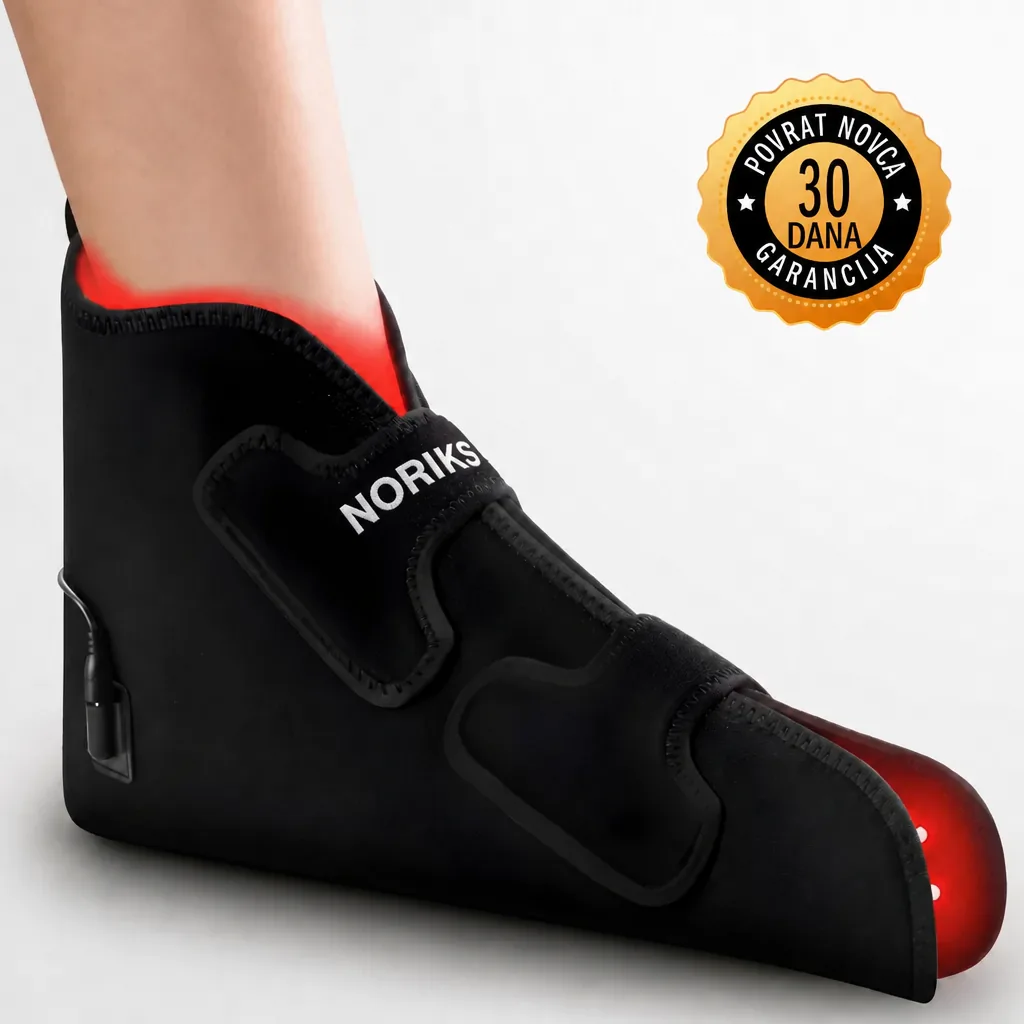
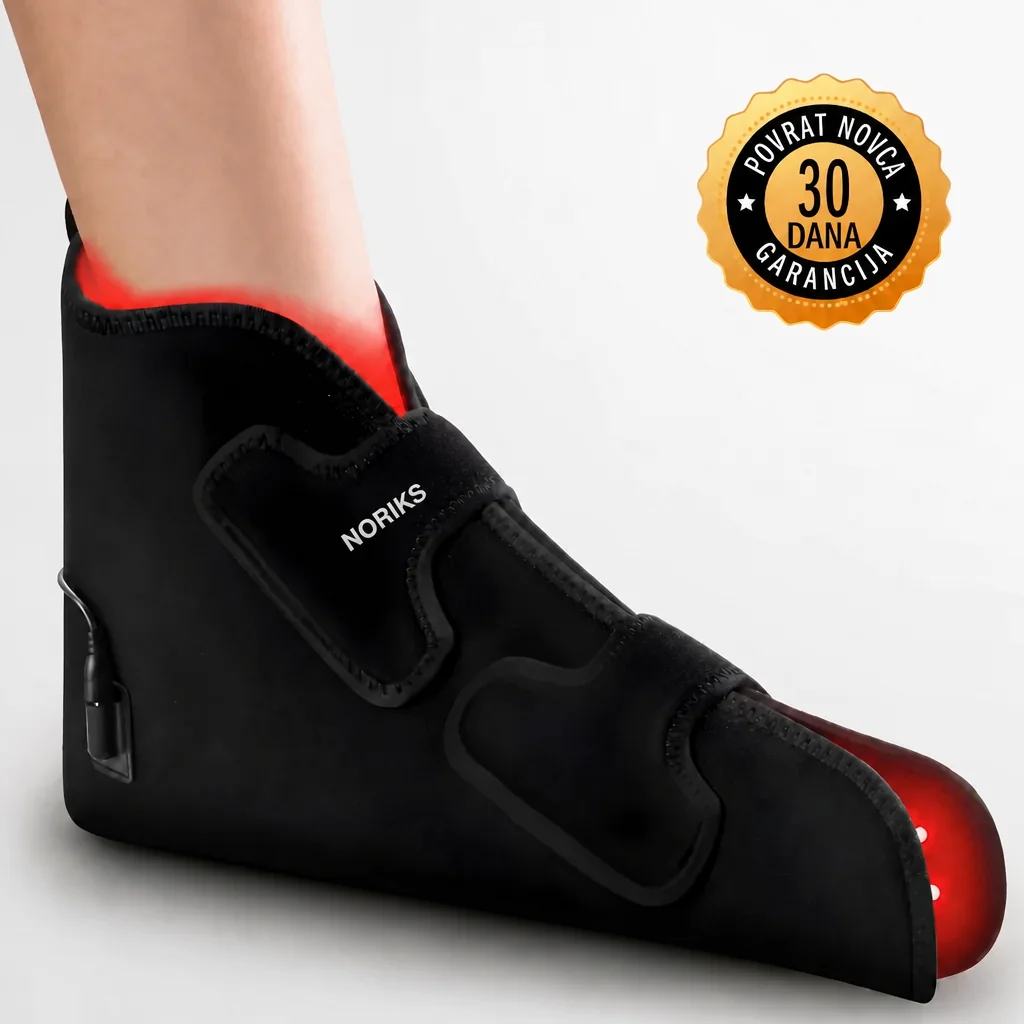
NeuroSoothe: napis NORIKS na obuvku v celoti na traku in cist (glavna slika, udobnost, korak 3) - prej je segal cez rob traku na obuvak (Davidov komentar)

diff --git a/wp-content/themes/noriks/template_parts/product-bottom/why-neurosoothe.php b/wp-content/themes/noriks/template_parts/product-bottom/why-neurosoothe.php
@@ -25,8 +25,8 @@ if ( ! defined( 'ABSPATH' ) ) { exit; }
 <section class="wsneurosoothe__s"><div class="wsneurosoothe__v wsneurosoothe__dva"><div class="wsneurosoothe__media wsneurosoothe__media--cela"><img src="<?php echo esc_url( get_template_directory_uri() . '/img/neurosoothe/noriks-neurosoothe-zdravlje-stopala.webp?v=2' ); ?>" alt="Prva pomoć kod neuropatije" loading="eager" decoding="async"></div><div><div class="wsneurosoothe__kicker">Prva pomoć</div><h2 class="wsneurosoothe__h2">Prva pomoć <em>kod neuropatije</em></h2><p class="wsneurosoothe__p">Ovo nije još jedna krema protiv bolova ni tableta za umrtvljivanje.</p><p class="wsneurosoothe__p">NORIKS NeuroSoothe je nosivi uređaj za terapiju živaca koji djeluje na izvoru neuropatije. Ugrađene diode crvenog i bliskog infracrvenog svjetla usmjerene su na stopala – upravo tamo gdje neuropatija najjače pogađa.</p><p class="wsneurosoothe__p">U čemu pomaže:</p><ul class="wsneurosoothe__kv"><li>potiče NGF (faktor rasta živaca) za obnovu živčanih završetaka</li><li>poboljšava cirkulaciju i dotok kisika u oštećeno tkivo</li><li>smanjuje upalu i omogućuje živcima da se prirodno obnove</li></ul><p class="wsneurosoothe__zak">Koristite ga 30 minuta dnevno i pustite tijelo da počne zacjeljivati – prirodno, nježno i učinkovito.</p></div></div></section>
 <section class="wsneurosoothe__s wsneurosoothe__s--bg"><div class="wsneurosoothe__v wsneurosoothe__dva wsneurosoothe__dva--rev"><div class="wsneurosoothe__media wsneurosoothe__media--cela"><img src="<?php echo esc_url( get_template_directory_uri() . '/img/neurosoothe/noriks-neurosoothe-cip.webp' ); ?>" alt="Napredna tehnologija crvenog svjetla, jednostavna za korištenje" loading="eager" decoding="async"></div><div><div class="wsneurosoothe__kicker">Tehnologija crvenog svjetla</div><h2 class="wsneurosoothe__h2">Napredna tehnologija crvenog svjetla, <em>jednostavna za korištenje</em></h2><p class="wsneurosoothe__p">Klinike za terapiju crvenim svjetlom naplaćuju stotine eura – uređaji su glomazni, a termini nikad ne prestaju.</p><p class="wsneurosoothe__p">NeuroSoothe koristi iste valne duljine kao profesionalni uređaji (<em>660 nm i 850 nm</em>) i donosi ih ravno u vaš dom – u udobnom obliku koji se nosi na stopalu.</p><ul class="wsneurosoothe__kv"><li><em>Crveno svjetlo (660 nm):</em> pojačava cirkulaciju i potiče oporavak na površini</li><li><em>Blisko infracrveno svjetlo (850 nm):</em> prodire dublje i potiče stvaranje NGF-a i obnovu živaca</li></ul><p class="wsneurosoothe__zak">Bez muke. Bez termina. Samo rezultati.</p></div></div></section>
 <section class="wsneurosoothe__s"><div class="wsneurosoothe__v wsneurosoothe__dva"><div class="wsneurosoothe__media"><img src="<?php echo esc_url( get_template_directory_uri() . '/img/neurosoothe/noriks-neurosoothe-stopalo.webp' ); ?>" alt="Prirodno ublažite neuropatsku bol" loading="eager" decoding="async"></div><div><div class="wsneurosoothe__kicker">Prirodno olakšanje</div><h2 class="wsneurosoothe__h2">Prirodno ublažite <em>neuropatsku bol</em></h2><p class="wsneurosoothe__p">Neuropatija je više od boli – to je prekid komunikacije između tijela i mozga. Kako živci slabe, simptomi se pogoršavaju.</p><p class="wsneurosoothe__p">NORIKS NeuroSoothe pomaže preokrenuti taj proces. Potičući NGF i pojačavajući dotok krvi u stopala, omogućuje tijelu da radi ono za što je stvoreno – da se oporavi.</p><p class="wsneurosoothe__p">Većina korisnika navodi poboljšanje kod:</p><ul class="wsneurosoothe__kv"><li>trnaca i osjećaja „strujnog udara“</li><li>utrnulosti prstiju i tabana</li><li>peckanja, osobito noću</li><li>stabilnosti i sigurnosti pri hodu</li><li>dubokog sna i razine energije</li></ul><p class="wsneurosoothe__zak">Koristite ga 30 minuta dnevno – nježno, prirodno i učinkovito.</p></div></div></section>
-<section class="wsneurosoothe__s wsneurosoothe__s--bg"><div class="wsneurosoothe__v wsneurosoothe__dva wsneurosoothe__dva--rev"><div class="wsneurosoothe__media wsneurosoothe__media--cela"><img src="<?php echo esc_url( get_template_directory_uri() . '/img/neurosoothe/noriks-neurosoothe-udobnost.webp?v=2' ); ?>" alt="Prednosti koje mijenjaju svakodnevicu" loading="eager" decoding="async"></div><div><div class="wsneurosoothe__kicker">Promjena koju osjetite</div><h2 class="wsneurosoothe__h2">Prednosti koje <em>mijenjaju svakodnevicu</em></h2><p class="wsneurosoothe__p">Uz redovitu svakodnevnu upotrebu NeuroSoothe je kupcima pomogao da:</p><p class="wsneurosoothe__p">Sve što trebate je pola sata dnevno – dok čitate, gledate televiziju ili se jednostavno odmarate na kauču.</p><ul class="wsneurosoothe__kv"><li>ponovno osjete svoja stopala</li><li>hodaju dulje bez boli</li><li>bolje spavaju cijelu noć</li><li>vrate energiju i samostalnost</li><li>napokon osjete olakšanje bez oslanjanja na lijekove</li></ul><p class="wsneurosoothe__zak">Mirnije noći i lakši koraci – naručite svoj NeuroSoothe danas.</p></div></div></section>
-<section class="wsneurosoothe__s"><div class="wsneurosoothe__v"><div class="wsneurosoothe__kicker wsneurosoothe__c">Kako se koristi</div><h2 class="wsneurosoothe__h2 wsneurosoothe__c">Olakšanje u <em>3 jednostavna koraka</em></h2><p class="wsneurosoothe__p wsneurosoothe__c">Olakšanje od neuropatije nikad nije bilo jednostavnije.</p><div class="wsneurosoothe__grid wsneurosoothe__g3"><div class="wsneurosoothe__k"><div class="wsneurosoothe__km"><img src="<?php echo esc_url( get_template_directory_uri() . '/img/neurosoothe/noriks-neurosoothe-korak-1.webp' ); ?>" alt="1. korak" loading="eager" decoding="async"></div><div class="wsneurosoothe__kt"><strong>1. korak</strong><p>Naručite NORIKS NeuroSoothe danas i za nekoliko dana stiže na vašu adresu – plaćate pouzećem.</p></div></div><div class="wsneurosoothe__k"><div class="wsneurosoothe__km"><img src="<?php echo esc_url( get_template_directory_uri() . '/img/neurosoothe/noriks-neurosoothe-korak-2.webp' ); ?>" alt="2. korak" loading="eager" decoding="async"></div><div class="wsneurosoothe__kt"><strong>2. korak</strong><p>Navucite obuvak i uključite gumb. Nosite ga 30 minuta dnevno – dok čitate ili se odmarate.</p></div></div><div class="wsneurosoothe__k"><div class="wsneurosoothe__km"><img src="<?php echo esc_url( get_template_directory_uri() . '/img/neurosoothe/noriks-neurosoothe-korak-3.webp?v=2' ); ?>" alt="3. korak" loading="eager" decoding="async"></div><div class="wsneurosoothe__kt"><strong>3. korak</strong><p>Osjetite stvarno olakšanje. Većina kupaca navodi manje boli, trnaca i peckanja nakon 7 – 14 dana korištenja.</p></div></div></div></div></section>
+<section class="wsneurosoothe__s wsneurosoothe__s--bg"><div class="wsneurosoothe__v wsneurosoothe__dva wsneurosoothe__dva--rev"><div class="wsneurosoothe__media wsneurosoothe__media--cela"><img src="<?php echo esc_url( get_template_directory_uri() . '/img/neurosoothe/noriks-neurosoothe-udobnost.webp?v=3' ); ?>" alt="Prednosti koje mijenjaju svakodnevicu" loading="eager" decoding="async"></div><div><div class="wsneurosoothe__kicker">Promjena koju osjetite</div><h2 class="wsneurosoothe__h2">Prednosti koje <em>mijenjaju svakodnevicu</em></h2><p class="wsneurosoothe__p">Uz redovitu svakodnevnu upotrebu NeuroSoothe je kupcima pomogao da:</p><p class="wsneurosoothe__p">Sve što trebate je pola sata dnevno – dok čitate, gledate televiziju ili se jednostavno odmarate na kauču.</p><ul class="wsneurosoothe__kv"><li>ponovno osjete svoja stopala</li><li>hodaju dulje bez boli</li><li>bolje spavaju cijelu noć</li><li>vrate energiju i samostalnost</li><li>napokon osjete olakšanje bez oslanjanja na lijekove</li></ul><p class="wsneurosoothe__zak">Mirnije noći i lakši koraci – naručite svoj NeuroSoothe danas.</p></div></div></section>
+<section class="wsneurosoothe__s"><div class="wsneurosoothe__v"><div class="wsneurosoothe__kicker wsneurosoothe__c">Kako se koristi</div><h2 class="wsneurosoothe__h2 wsneurosoothe__c">Olakšanje u <em>3 jednostavna koraka</em></h2><p class="wsneurosoothe__p wsneurosoothe__c">Olakšanje od neuropatije nikad nije bilo jednostavnije.</p><div class="wsneurosoothe__grid wsneurosoothe__g3"><div class="wsneurosoothe__k"><div class="wsneurosoothe__km"><img src="<?php echo esc_url( get_template_directory_uri() . '/img/neurosoothe/noriks-neurosoothe-korak-1.webp' ); ?>" alt="1. korak" loading="eager" decoding="async"></div><div class="wsneurosoothe__kt"><strong>1. korak</strong><p>Naručite NORIKS NeuroSoothe danas i za nekoliko dana stiže na vašu adresu – plaćate pouzećem.</p></div></div><div class="wsneurosoothe__k"><div class="wsneurosoothe__km"><img src="<?php echo esc_url( get_template_directory_uri() . '/img/neurosoothe/noriks-neurosoothe-korak-2.webp' ); ?>" alt="2. korak" loading="eager" decoding="async"></div><div class="wsneurosoothe__kt"><strong>2. korak</strong><p>Navucite obuvak i uključite gumb. Nosite ga 30 minuta dnevno – dok čitate ili se odmarate.</p></div></div><div class="wsneurosoothe__k"><div class="wsneurosoothe__km"><img src="<?php echo esc_url( get_template_directory_uri() . '/img/neurosoothe/noriks-neurosoothe-korak-3.webp?v=3' ); ?>" alt="3. korak" loading="eager" decoding="async"></div><div class="wsneurosoothe__kt"><strong>3. korak</strong><p>Osjetite stvarno olakšanje. Većina kupaca navodi manje boli, trnaca i peckanja nakon 7 – 14 dana korištenja.</p></div></div></div></div></section>
 <section class="wsneurosoothe__s wsneurosoothe__s--bg"><div class="wsneurosoothe__v"><div class="wsneurosoothe__kicker wsneurosoothe__c">Ocjena 4,8 / 5</div><h2 class="wsneurosoothe__h2 wsneurosoothe__c">Što još kažu <em>naši kupci</em></h2><p class="wsneurosoothe__p wsneurosoothe__c">Prosječna ocjena 4,8 od 120.000 NORIKS kupaca.</p><div class="wsneurosoothe__grid wsneurosoothe__g3"><div class="wsneurosoothe__k"><div class="wsneurosoothe__km"><img src="<?php echo esc_url( get_template_directory_uri() . '/img/neurosoothe/noriks-neurosoothe-mnenje-1.webp' ); ?>" alt="Budite strpljivi s rezultatima" loading="eager" decoding="async"></div><div class="wsneurosoothe__kt"><span class="wsneurosoothe__zv">★★★★★</span><strong>Budite strpljivi s rezultatima</strong><p>Imam perifernu neuropatiju stopala i bol me često budi. Taban mi je bio kao od debele kože, a opet preosjetljiv na dodir. Nakon 30 dana korištenja tri puta dnevno počinjem osjećati rezultate – samo me jednom stopala probudila, a taban se čini tanjim i mekšim. Još ne govorim o čudu, ali nadam se da je ovo svjetlo na kraju tunela.</p><span class="wsneurosoothe__ime"><i class="wsneurosoothe__av" aria-hidden="true">D</i>Dalia P.</span></div></div><div class="wsneurosoothe__k"><div class="wsneurosoothe__km"><img src="<?php echo esc_url( get_template_directory_uri() . '/img/neurosoothe/noriks-neurosoothe-mnenje-2.webp' ); ?>" alt="Vrijedi!" loading="eager" decoding="async"></div><div class="wsneurosoothe__kt"><span class="wsneurosoothe__zv">★★★★★</span><strong>Vrijedi!</strong><p>Nedavno sam isprobao NeuroSoothe obuvke i stvarno sam impresioniran. Primjetno olakšanje, jednostavno korištenje – samo ih navučem i podesim postavke. Pulsni način potiče cirkulaciju u stopalima i oslobađa nelagodu. Nakon nekoliko korištenja bol se znatno smanjila. Toplo preporučujem!</p><span class="wsneurosoothe__ime"><i class="wsneurosoothe__av" aria-hidden="true">E</i>Elvis D.</span></div></div><div class="wsneurosoothe__k"><div class="wsneurosoothe__km"><img src="<?php echo esc_url( get_template_directory_uri() . '/img/neurosoothe/noriks-neurosoothe-mnenje-3.webp' ); ?>" alt="Pulsni način je učinkovit" loading="eager" decoding="async"></div><div class="wsneurosoothe__kt"><span class="wsneurosoothe__zv">★★★★★</span><strong>Pulsni način je učinkovit</strong><p>Pravi spas! Nakon nekoliko korištenja primijetila sam veliku razliku. Toplina i svjetlo jako umiruju, osobito nakon dugog dana na nogama. Obuvak udobno obuhvaća stopalo i gležanj, lagan je, a opet čvrst. Bila sam skeptična, ali ovo stvarno djeluje!</p><span class="wsneurosoothe__ime"><i class="wsneurosoothe__av" aria-hidden="true">L</i>Lea R.</span></div></div></div></div></section>
 <section class="wsneurosoothe__s"><div class="wsneurosoothe__v"><div class="wsneurosoothe__kicker wsneurosoothe__c">KUPUJTE BEZ BRIGE</div><h2 class="wsneurosoothe__h2 wsneurosoothe__c">Uz NORIKS kupujete <em>bez rizika</em></h2><p class="wsneurosoothe__p wsneurosoothe__c">NORIKS NeuroSoothe isprobajte kod kuće. Ako vam ne odgovara, imate 30 dana za povrat – bez kompliciranja i bez pitanja.</p><div class="wsneurosoothe__red4 wsneurosoothe__pog"><div><span class="wsneurosoothe__pi"><svg viewBox="0 0 24 24" width="26" height="26" fill="none" stroke="currentColor" stroke-width="1.8" stroke-linecap="round" stroke-linejoin="round" aria-hidden="true"><path d="M4 12a8 8 0 1 0 2.4-5.7"/><path d="M4 4v4.5h4.5"/><path d="M12 8v4l2.6 2"/></svg></span><strong>30 dana</strong><span>za povrat novca</span></div><div><span class="wsneurosoothe__pi"><svg viewBox="0 0 24 24" width="26" height="26" fill="none" stroke="currentColor" stroke-width="1.8" stroke-linecap="round" stroke-linejoin="round" aria-hidden="true"><path d="M2.5 6.5h11v9h-11z"/><path d="M13.5 9.5h4l3 3.2v2.8h-7"/><circle cx="7" cy="17.5" r="1.8"/><circle cx="17" cy="17.5" r="1.8"/></svg></span><strong>Besplatna dostava</strong><span>iznad 70 €</span></div><div><span class="wsneurosoothe__pi"><svg viewBox="0 0 24 24" width="26" height="26" fill="none" stroke="currentColor" stroke-width="1.8" stroke-linecap="round" stroke-linejoin="round" aria-hidden="true"><rect x="2.5" y="6" width="19" height="12" rx="2"/><circle cx="12" cy="12" r="2.6"/><path d="M6 9.5v5M18 9.5v5"/></svg></span><strong>Plaćanje pouzećem</strong><span>platite kad paket stigne</span></div><div><span class="wsneurosoothe__pi"><svg viewBox="0 0 24 24" width="26" height="26" fill="none" stroke="currentColor" stroke-width="1.8" stroke-linecap="round" stroke-linejoin="round" aria-hidden="true"><circle cx="9" cy="8" r="3.2"/><path d="M3 20c0-3.3 2.7-6 6-6s6 2.7 6 6"/><circle cx="17" cy="9" r="2.6"/><path d="M16 14.2c2.9.3 5 2.8 5 5.8"/></svg></span><strong>120.000 kupaca</strong><span>prosječna ocjena 4,8</span></div></div></div></section>
 </div>
